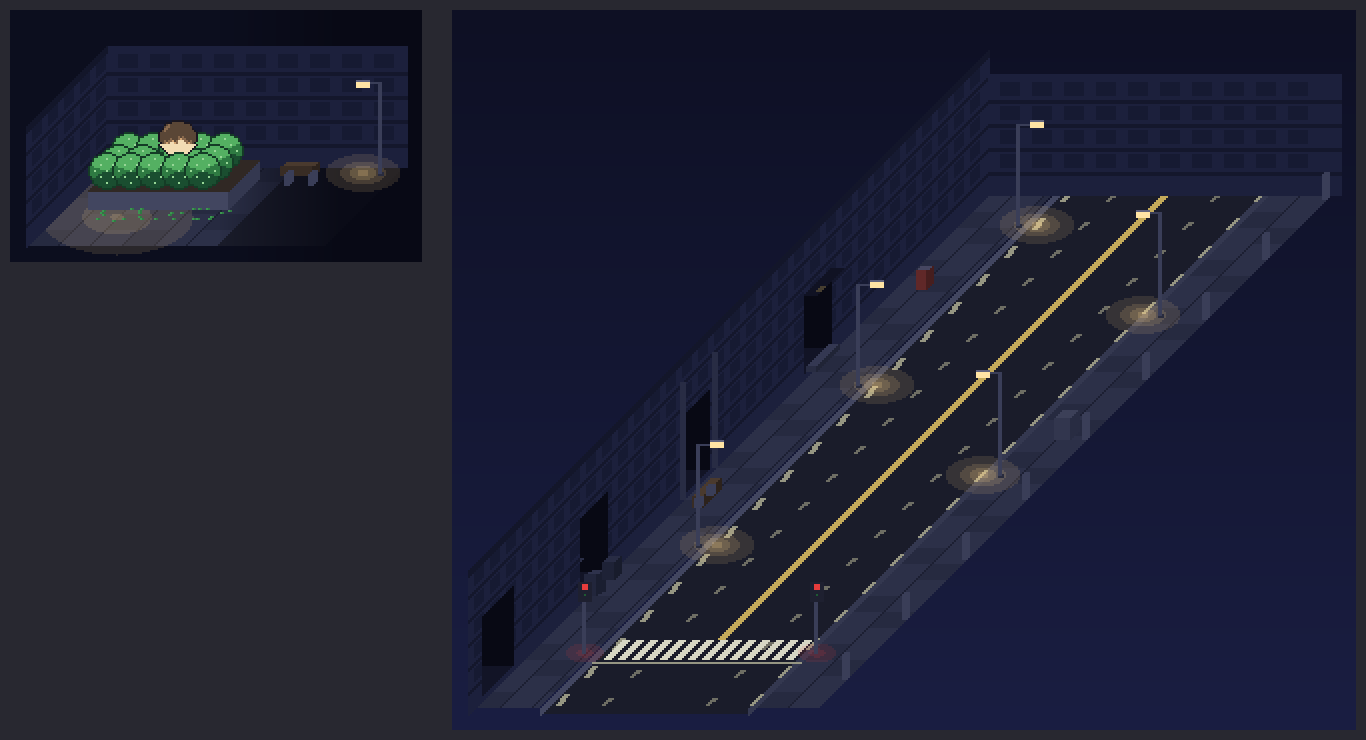
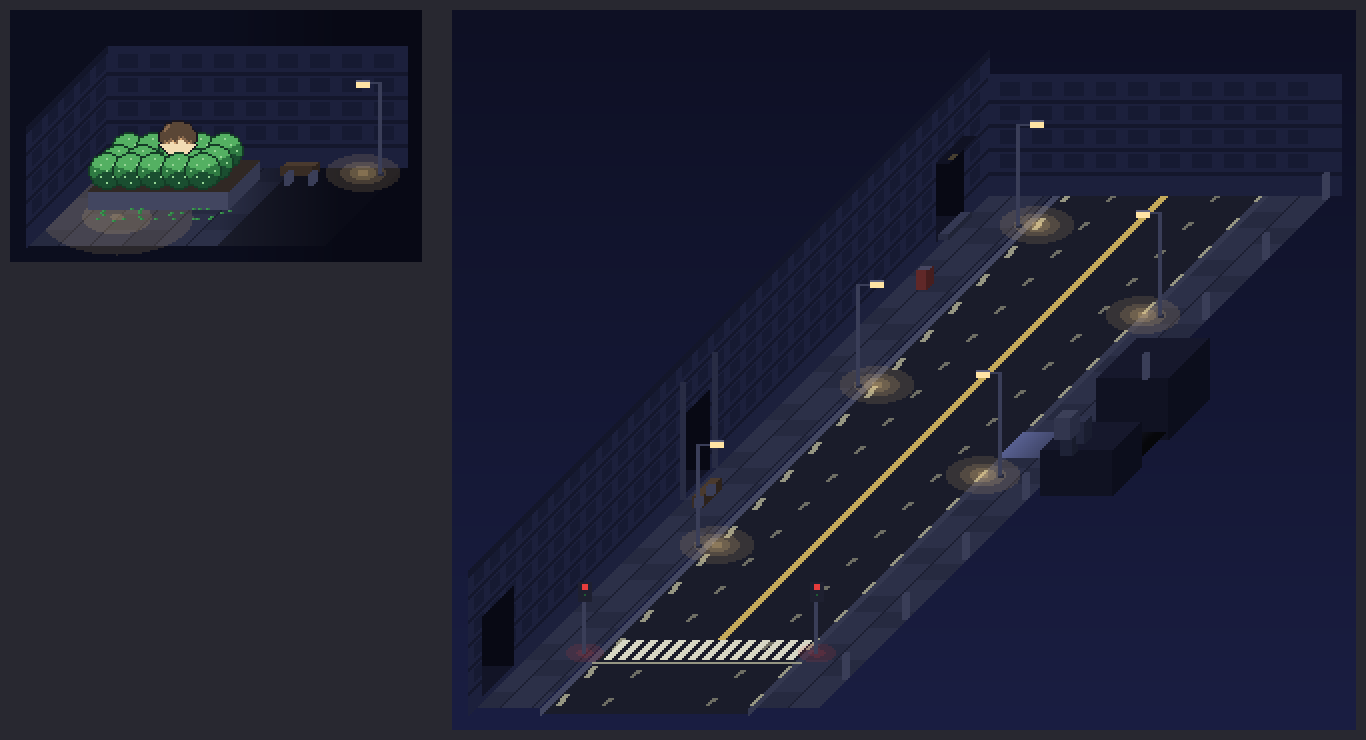
City 3D: alleys at left end and right middle
Claude-Session: https://claude.ai/code/session_01FPZSaKiVNU2zED737yZX4w

diff --git a/tools/render_city3d.py b/tools/render_city3d.py
@@ -120,6 +120,15 @@ def alley(s, d0, d1, kind, depth=18, h=42, z=3):
         s.poly([(0, d0, h), (6, d0, h), (6, d1, h), (0, d1, h)], dk(WALLD, .8)); s.poly([(1, d0 + 11, h - 3), (3, d0 + 11, h - 3), (3, d0 + 13, h - 3), (1, d0 + 13, h - 3)], (70, 62, 48))
         s.box(0, d0 + 2, 5, 22, 2, (52, 56, 82), (40, 44, 66), (32, 36, 54), z0=3)
 
+def alley_right(s, d0, d1, x0=176, ln=36):
+    """오른쪽 인도 끝(난간 사이)에서 오른쪽으로 빠지는 어두운 골목: 건물 덩어리 둘 사이의 길, 끝으로 갈수록 어둠에 잠긴다."""
+    blk = ((22, 24, 44), (16, 18, 34), (12, 14, 28))
+    s.box(x0, d1, ln, 40, 30, *blk)                                                   # 골목 뒤쪽 건물
+    s.floor(lambda x, d: tuple(int(v * max(.15, 1 - (x - x0) / ln)) for v in PAVE), x0=x0 - 36, x1=x0 + ln, d0=d0, d1=d1, z=3)   # 골목 바닥
+    s.box(x0, d0 - 30, ln, 28, 22, *blk)                                              # 골목 앞쪽 건물
+    s.box(x0 - 6, d0 + 3, 5, 5, 8, (40, 44, 68), (30, 34, 54), (24, 28, 44), z0=3)    # 입구 곁 쓰레기통
+    s.box(x0 - 6, d1 - 9, 5, 5, 10, (46, 50, 76), (34, 38, 60), (26, 30, 48), z0=3)
+
 # ---------------- 장면 1: 광장 ----------------
 def landing():
     W, D = 150, 80; s = Scene(W, D, 70); rng = random.Random(5)
@@ -180,12 +189,13 @@ def street():
         s.jobs.append((56, sig)); s.glow(x, 56, 18, col=(230, 60, 60), power=.35, z=3)
     s.wall_left(0, D, 72, seed=4); s.wall_back(0, W, D, 60, seed=6)
     # 왼쪽 건물 벽에 골목 입구: 광장으로 이어지는 통로(아래) + 골목 3개. 모두 어둡다.
-    alley(s, 14, 44, 'link', depth=34); alley(s, 112, 138, 'bins'); alley(s, 214, 240, 'pipes'); alley(s, 336, 362, 'door')
+    alley(s, 14, 44, 'link', depth=34); alley(s, 214, 240, 'pipes'); alley(s, 468, 494, 'door'); alley_right(s, 250, 276)
     for x, d, side in [(30, 170, 1), (146, 240, -1), (30, 330, 1), (146, 400, -1), (30, 490, 1)]: s.lamp(x, d, 50, side)
     s.box(12, 200, 5, 18, 5, (74, 58, 46), (56, 44, 36), (44, 34, 28), z0=4); s.box(12, 202, 3, 2, 4, POLE, POLE, POLE, z0=3); s.box(12, 214, 3, 2, 4, POLE, POLE, POLE, z0=3)
     s.box(158, 270, 8, 8, 10, (60, 64, 88), (50, 54, 78), (40, 44, 66), z0=3)
     s.box(14, 420, 5, 5, 9, (70, 70, 96), (96, 40, 40), (70, 30, 30), z0=3)
-    for d in range(30, D, 60): s.box(172, d, 2, 2, 12, POLE, POLE, POLE, z0=3)
+    for d in range(30, D, 60):
+        if not (250 - 4 <= d <= 276 + 4): s.box(172, d, 2, 2, 12, POLE, POLE, POLE, z0=3)
     s.run(); return s.save('city3d_street')
 
 def main():
